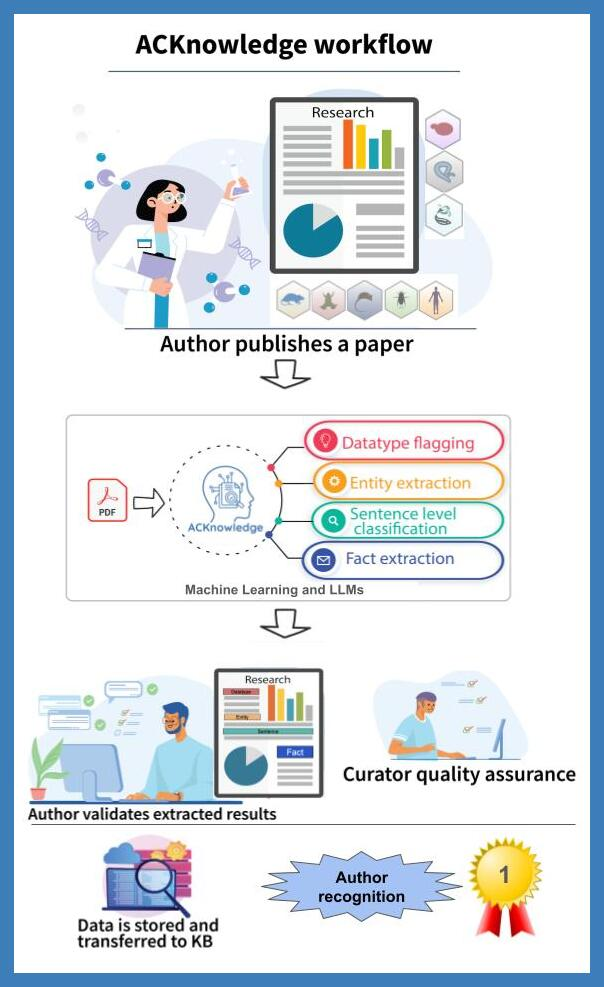
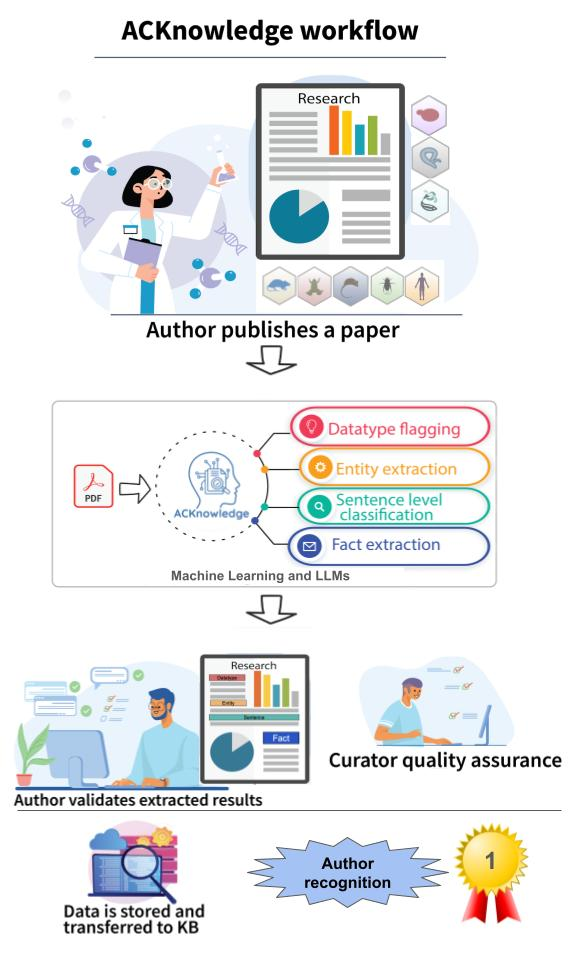
style(docs): split bordered figure for README, use CSS border in HTML

diff --git a/index.html b/index.html
@@ -15,7 +15,7 @@
     <br/>
     <br/>
     <h4><strong>Have you authored a C. elegans paper and want to contribute to community curation? Access our <a href="https://acp.acknowledge.textpressolab.com">Author Curation Portal</a> to participate.</strong></h4>
-    <img src="src/frontend/submission_form/public/specific-aims-figure.jpg" alt="ACKnowledge specific aims figure" style="float: right; width: 33%; margin: 0 0 1em 1em;"/>
+    <img src="src/frontend/submission_form/public/specific-aims-figure.jpg" alt="ACKnowledge specific aims figure" style="float: right; width: 33%; margin: 0 0 1em 1em; border: 3px solid #3d7db8;"/>
     <p>The Author Curation to Knowledgebase project (ACKnowledge) aims at facilitating author curation to biological  knowledgebases.</p>
 
     <p>Biological knowledgebases serve as a critical resource for researchers and accelerate scientific discoveries by providing manually curated, machine-readable data collections. At present, the aggregation and manual curation of biological data is a labor-intensive process that relies almost entirely on professional biocurators. Biocuration, however, is greatly aided when authors directly participate in the process.</p>

diff --git a/README.md b/README.md
@@ -1,6 +1,6 @@
 ![ACKnowledge logo](src/frontend/submission_form/public/lockup-with-rule-color-100.jpg)
 
-<img src="src/frontend/submission_form/public/specific-aims-figure.jpg" alt="ACKnowledge specific aims figure" align="right" width="33%" hspace="20"/>
+<img src="src/frontend/submission_form/public/specific-aims-figure-bordered.jpg" alt="ACKnowledge specific aims figure" align="right" width="33%" hspace="20"/>
 
 <div align="justify">
 